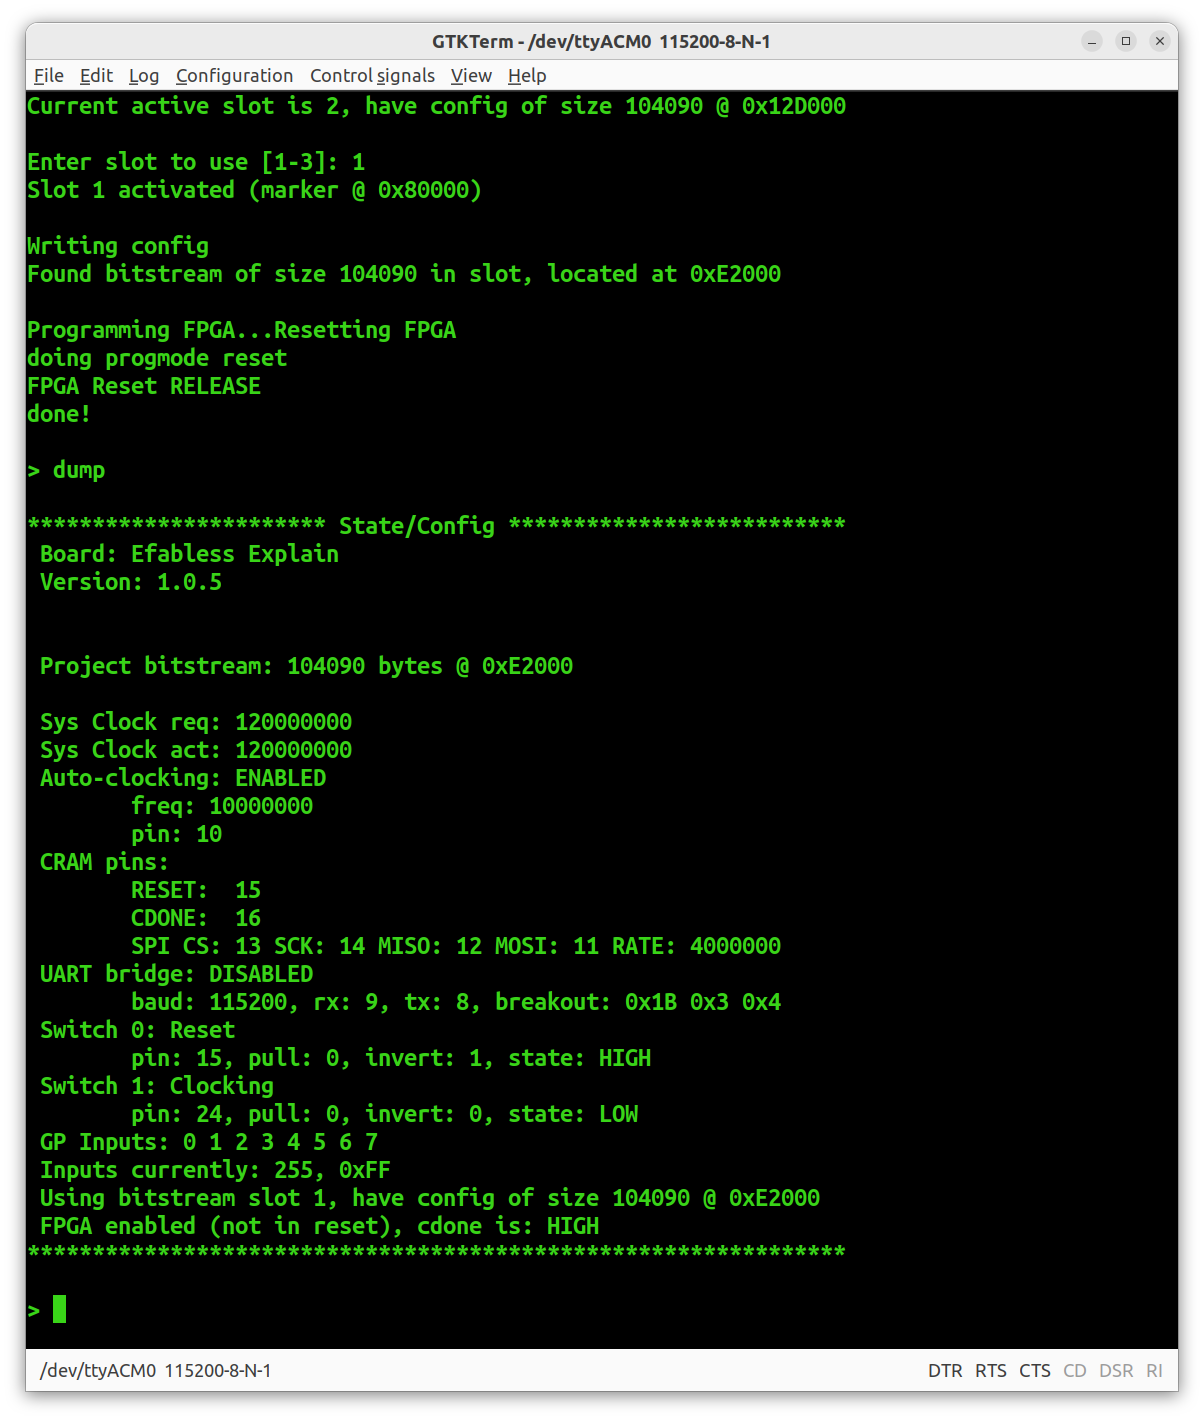
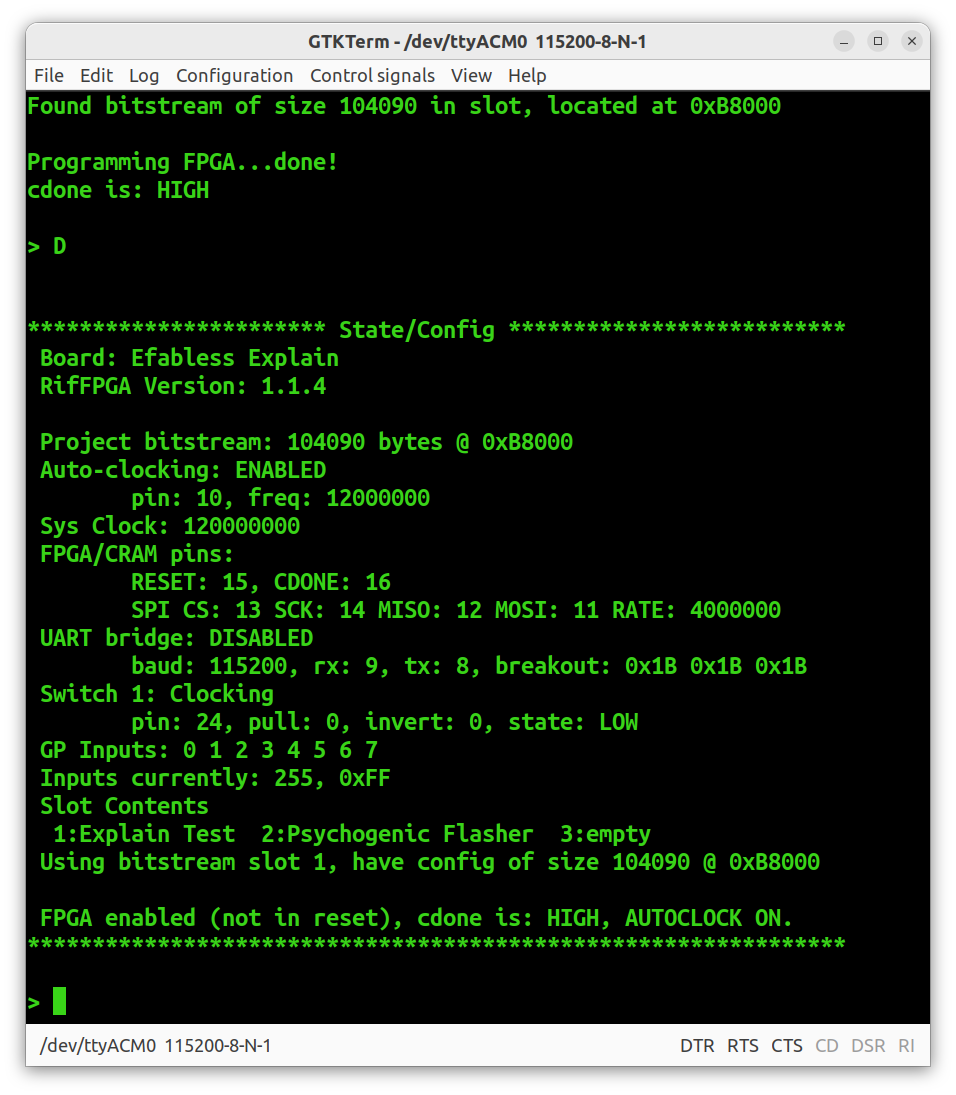
docs, cleanups and psydmi target fixen

Changed region(s): [[0.0, 0.0, 1.0, 0.9936], [0.546, 0.2795, 0.8797, 0.3105], [0.3337, 0.59, 0.3944, 0.621]]

diff --git a/src/config_defaults/psydmi.h b/src/config_defaults/psydmi.h
@@ -73,7 +73,7 @@
  * Set to 1 if FPGA may be reset externally
  * and this may be monitored on PIN_FPGA_RESET
  */
-#define FPGA_RESET_EXTERNALLY_TRIGGERED		1
+#define FPGA_RESET_EXTERNALLY_TRIGGERED		0
 
 #define FPGA_PROG_DONE_LEVEL	1 /* 1==HIGH means program success */
 
@@ -111,13 +111,13 @@
 #define USER_SWITCH_IDX_USR2		3
 
 #define USER_SWITCH_RESET_PIN		15
-#define USER_SWITCH_RESET_FUNCTION	1 /* 1 == Reset */
+#define USER_SWITCH_RESET_FUNCTION	0 /* 1 == Reset */
 #define USER_SWITCH_RESET_INVERT	1
 #define USER_SWITCH_RESET_PULL		0
 #define USER_SWITCH_RESET_EDGE		GPIO_IRQ_EDGE_FALL
 
 
-#define USER_SWITCH_CLOCK_PIN		24
+#define USER_SWITCH_CLOCK_PIN		5
 #define USER_SWITCH_CLOCK_FUNCTION	2 /* 2 == Clocking */
 #define USER_SWITCH_CLOCK_INVERT	0
 #define USER_SWITCH_CLOCK_PULL		0
@@ -139,6 +139,7 @@
 #define SYSTEM_NEWER_VERSION_AUTO_RESET		1
 #define SYSTEM_INPUTS_NUM					0
 #define SYSTEM_INPUTS_IO_LIST				/* 0,1,2,3,4,5,6,7 */
+
 
 
 /*

diff --git a/src/main.c b/src/main.c
@@ -43,6 +43,11 @@
 
 DriverState MainDriverState;
 
+
+// for dev emergencies, lol:
+// define FORCE_FACTORY_RESET
+
+
 //--------------------------------------------------------------------+
 // MACRO CONSTANT TYPEDEF PROTYPES
 //--------------------------------------------------------------------+
@@ -70,7 +75,11 @@ void setup(void) {
 	uf2_init();
 
 	boardconfig_init();
+#ifdef FORCE_FACTORY_RESET
+	{
+#else
 	if (boardconfig_version_mismatch() == true) {
+#endif
 		// we reset -- no guarantee that bitstreams
 		// slots are safe, so erase those too
 		boardconfig_factoryreset(true);

diff --git a/bin/bitstream_to_uf2.py b/bin/bitstream_to_uf2.py
@@ -102,7 +102,7 @@ def get_args():
                         
     parser.add_argument('--factoryreset', required=False,
                         action='store_true',
-                        help='Ignore everything, create a factory reset package')
+                        help='Ignore other --args, just create a factory reset packet of death')
                         
     parser.add_argument('infile',
                         help='input bitstream')

diff --git a/README.md b/README.md
@@ -10,18 +10,22 @@ With riffpga you get:
 
   *  **drag & drop** configuration of pretty much any FPGA: copy the file to the drive and programming is done;
   
-  *  a dynamically **configurable clock** frequency for the FPGA designs: clock designs from 10Hz to 60MHz;
+  *  a dynamically **configurable clock** frequency for the FPGA designs: clock designs from 10Hz to (at least) 40MHz;
   
   *  **multiple bitstream** slots that can be switched on the fly: change the design that's running at any time without reprogramming;
   
-  *  A **USB-to-UART** serial bridge to the FPGA; and
+  *  **named slots** for bitstreams and associated **clock frequency**, adjusted on the fly when loaded;
   
-  *  a **serial interface** to manage clock rates, reset the FPGA, select bitstreams or do pretty much anything you'd like.
-
-And all this basically costs you a whole dollar.  At this time, the system's been tested with [Lattice iCE40 HX](https://www.latticesemi.com/ice40) and [UltaPlus](https://www.latticesemi.com/en/Products/FPGAandCPLD/iCE40UltraPlus) chips, but anything that has a CRAM mode we can manually twiddle should be doable.
+  *  a **serial interface** to manage clock rates, reset the FPGA, select bitstreams or do pretty much anything you'd like; and
+  
+  *  A **USB-to-UART** serial bridge to the FPGA.
+  
+  
+And all this basically costs you a whole dollar.  At this time, the system's been tested with [Lattice iCE40 HX](https://www.latticesemi.com/ice40) and [UltaPlus](https://www.latticesemi.com/en/Products/FPGAandCPLD/iCE40UltraPlus) chips, but anything that has a *CRAM* mode we can manually twiddle to configure the FPGA should be doable.
 
 
 ## Drag & Drop Programming
+
 Drag & drop, or copy over, files to program the FPGA.
 
 ![drag and drop](./images/riffpga_dnd.png)
@@ -35,12 +39,38 @@ The system will automatically detect which slot this bitstream goes into and set
 
 Though you don't *need* to access it, by default riffpga provides a serial device that allows you to interact with the system.  This will appear as an ACM device under Linux (e.g. `/dev/ttyACM0`) and some COM thing under windows.
 
+
+### online help
+
 Once connected using a serial terminal, you can issue a `?` to list the available commands.
 
 
 ![serial interface](./images/riffpga_terminal.png)
 
-A number of commands are available, for instance to set the project auto-clocking frequency and select the bitstream slot that is active.  These configuration changes may be preserved at any point using the `save` command, otherwise the prior defaults will be loaded on next power-up.
+### bitstream selection
+
+Multiple bitstreams may be loaded and selected dynamically.  Optionally, each bitstream may be given a name and an associated clocking rate, so it's a simple matter to switch between designs.
+
+
+![bitstream slot selection](./images/riffpga_slots.png)
+
+### UART bridge
+
+Since we have the USB connection and serial terminal, it might be nice to get serial comms working on FPGA designs without needing any extra wiring, yes? 
+
+The UART bridge mode shuttles everything coming to the RP2 over the comm port a pin on the FPGA, and performs the reverse operation, relaying the FPGA's tx to you via the USB-serial.
+
+As long as your design includes a UART on the right pins it will just work, and the baudrate used by the RP2 is configurable through one of the commands.
+
+You can activate the bridge using the `uartbridge` command.  Once it's activated, it would seem impossible to deactivate without resetting.  But wait, there's more.
+
+While forwarding the data to and fro, the RP monitors what comes in from the computer side, looking for a specific sequence and will tear down the connection if it sees these.  The combo is configurable on a per-board basis, by default it's `0x1B 0x1B 0x1B`... which you can send with a program but this is just the ESCape key three times, so you can send it with your keyboard.
+
+
+
+### running commands
+
+A number of commands are available, for instance to playing with the clocking frequency or for forcing reset and reprogramming.  Configuration changes may be preserved at any point using the `save` command, otherwise the prior defaults will be loaded on next power-up.
 
 Entering:
 
@@ -82,9 +112,11 @@ In your own projects, you can either wire up a bare RP2 chip or drop in a [Raspb
 
 The basic function doesn't require all that much wiring.  Even with all the "options" you basically just need 9 pins.
 
-Here are the two boards from which I grabbed the terminal screenshots, along with the relevant section of a schematic that uses this system with a bare RP2040 chip:
+Here are the two boards from which I grabbed the terminal screenshots, along with the relevant section of a schematic that uses this system, where you can see a bare RP2040 chip that's tied to USB on one side and an FPGA on the other:
 
 ![riffpga hook-up](./images/riffpga_basichookup.jpg)
+
+### required
 
 Other than having the RP2040 wired up to function (meaning with it's oscillator, flash, a means to trigger the boot-mode for updates, USB data etc), the important things are to have:
 
@@ -94,7 +126,9 @@ Other than having the RP2040 wired up to function (meaning with it's oscillator,
   *  An I/O connected to a global buffer pin on the FPGA, so we can clock projects with it
   
 and to setup the FPGA such that it defaults to being in slave mode (i.e. that it won't try and drive the SPI lines to access a flash chip that isn't there and conflict with the RP2).
-  
+
+### optional
+
 Optional, but recommended are connecting the RP2040 to 
 
   * the CDONE or equivalent, so we can see that the programming worked out;
@@ -102,7 +136,16 @@ Optional, but recommended are connecting the RP2040 to
   * UART tx and rx lines somewhere onto the FPGA;
   
   * A blinkenlight and maybe some user switches, 'cause they never hurt.
-  
+
+### precision clocking
+
+Finally, in some cases the clocking signal coming from the RP2040 might not be as precise or jitter-free as you need.  For these cases, I wire up a standard oscillator on another of the global buffer inputs and then select the flexibility of the RP2 clocking for some projects, and the precision of the external oscillator for designs that need it.
+
+This allows for experimentation ("hey, maybe I can get away with a PWMed clock from the RP... let's see") while still allowing the fallback of adding an external OSC to the BOM if I have to.
+
+
+
+
 ## Software
 
 This code may be all you need.  It's all C, programmed using the [Pico C SDK](https://datasheets.raspberrypi.com/pico/raspberry-pi-pico-c-sdk.pdf).  
@@ -154,15 +197,44 @@ Anyway, now you have a wonderful pico uf2 file, e.g. `build/riffpga_generic.uf2`
 
 ### Creating UF2s from bitstreams
 
-Ok, so you have a blinky project for your FPGA.  How do you get it on there?  Yeah, it's drag&drop but you need that UF2 file.
+Ok, so you have a blinky project for your FPGA.  How do you get it on there?  Yeah, it's drag&drop but you need a valid UF2 file to copy into there.  There's a script included for that, so you're going to need some Python.
 
 First, get [uf2utils](https://pypi.org/project/uf2utils/) using pip.
 
-Next, if you changed the UF2 magic as per the above, edit [bitstream_to_uf2.py](bin/bitstream_to_uf2.py).
+
+That little Python magic script is included to generate valid UF2 from bin files (the bitstream bundle of bits you normally send over to the CRAM) and you can run `bitstream_to_uf2.py --help` to see its current list of options:
+
+```
+
+usage: bitstream_to_uf2.py [-h] [--target {generic,efabless,psydmi}] [--slot SLOT] 
+                           [--name NAME] [--autoclock AUTOCLOCK]
+                           [--appendslot] [--factoryreset]
+                           infile outfile
+
+Convert bitstream .bin to .uf2 file to use with riffpga
+
+positional arguments:
+  infile                input bitstream
+  outfile               output UF2 file
+
+options:
+  -h, --help            show this help message and exit
+  --target {generic,efabless,psydmi}
+                        Target board [generic]
+  --slot SLOT           Slot (1-3) [1]
+  --name NAME           Pretty name for bitstream
+  --autoclock AUTOCLOCK
+                        Auto-clock preference for project, in Hz [10-60e6]
+  --appendslot          Append to slot to output file name
+  --factoryreset        Ignore other --args, just create a factory reset packet of death
+
+Copy the resulting UF2 over to the mounted FPGAUpdate drive
+
+```
+
+If you changed the UF2 magic as per the above, you need to tell the generator about the new values. Edit [bitstream_to_uf2.py](bin/bitstream_to_uf2.py).
 
 In there, you'll find a `TargetOptions` dict.  Edit or create a key, and set the various elements, e.g.
-
-
 
 ```
     'myplatform': UF2Settings(
@@ -173,25 +245,7 @@ In there, you'll find a `TargetOptions` dict.  Edit or create a key, and set the
                     magicend= 0x987654),
 ```
 
-Once that's in the dictionary, you can run `bitstream_to_uf2.py --help` and you'll see your platform in the target list
-
-```
-usage: bitstream_to_uf2.py [-h] [--target {generic,efabless,psydmi,myplatform}] [--slot SLOT] infile outfile
-
-Convert bitstream .bin to .uf2 file to use with riffpga
-
-positional arguments:
-  infile                input bitstream
-  outfile               output UF2 file
-
-options:
-  -h, --help            show this help message and exit
-  --target {generic,efabless,psydmi,myplatform}
-                        Target board [generic]
-  --slot SLOT           Slot (1-3) [1]
-
-Copy the resulting UF2 over to the mounted FPGAUpdate drive
-```
+Once that's in the dictionary, 
 
 So you can just find that .bin file for your project and run:
 
@@ -200,6 +254,13 @@ So you can just find that .bin file for your project and run:
 ```
 
 It will produce blinky.uf2.  You can run `uf2info /tmp/blinky.uf2` to see that things are sane.  Or just copy over to the FPGAUpdate drive.  Yay.
+
+Even better, if you want the slot to be **named** and/or **auto-clocked** at a particular frequency on load, then call it with the `--name` and `--autoclock` params, e.g. 
+
+```
+./bin/bitstream_to_uf2.py --target myplatform --autoclock 2000000 --name "Wonderful Blinky" /path/to/blinky.bin /tmp/blinky.uf2
+```
+
 
 
 # License
